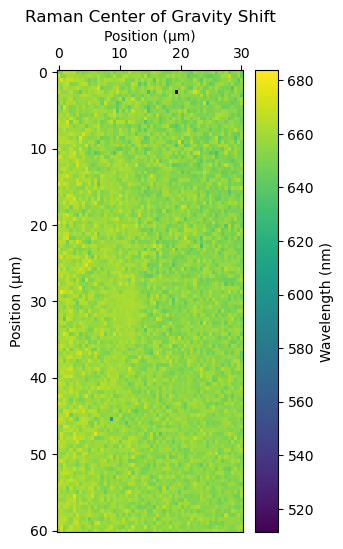
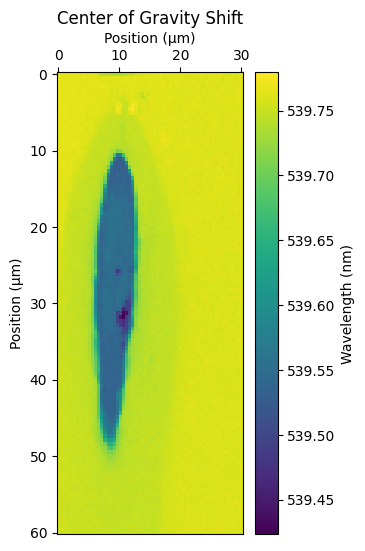
Er Fluorescence Analyzed
Put into excel
Changed wavelength from 539.5 to 539.4
Scans complete

diff --git a/AnalyzeErScan.py b/AnalyzeErScan.py
@@ -122,8 +122,9 @@ for Folder in os.listdir(Parent):
     # Determine which peak to look at
     FluorescenceIndex = 0
     for i in range(SpectrumWidth):
-        if(int(Wavelengths[i] * 10) == 5395 and FluorescenceIndex == 0):
+        if(int(Wavelengths[i] * 10) == 5394 and FluorescenceIndex == 0):
             FluorescenceIndex = i
+    print("Index", FluorescenceIndex)
     CenterOfGravityEr = sb.CenterOfGravity(ScanData, FluorescenceIndex, 20, Wavelengths, StepsY, StepsX, SpectrumWidth)
 
     # Intensity Colormap
